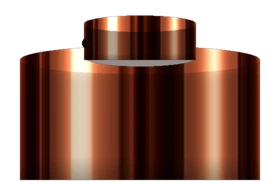
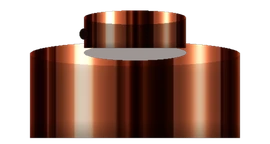
Hero: borrifador mais fino e proporcional ao frasco
Claude-Session: https://claude.ai/code/session_01TqcjX2HsBcZjAJ8EvGL2yP

diff --git a/app.js b/app.js
@@ -450,7 +450,7 @@ function layoutCena() {
 function borrifar() {
   if (reduz) return;
   const c = cena.getBoundingClientRect(), hr = heroEl.getBoundingClientRect();
-  const ox = c.left - hr.left + 1066 * escala, oy = c.top - hr.top + 202 * escala, k = escala / 1.1;
+  const ox = c.left - hr.left + 1075 * escala, oy = c.top - hr.top + 237 * escala, k = escala / 1.1;
   let n = 0;
   const tick = () => {
     const forca = n < 4 ? 1 : Math.max(0, 1 - (n - 4) / 14);          // jato curto: ~0,3 s

diff --git a/index.html b/index.html
@@ -100,7 +100,7 @@
           </linearGradient>
         </defs>
         <image href="/img/hero-base.jpg" width="1536" height="1024"/>
-        <image id="bico" href="/img/hero-bico.webp" x="1022" y="181" width="140" height="92"/>
+        <image id="bico" href="/img/hero-bico.webp" x="1047" y="225" width="90" height="48"/>
         <image id="tampa" href="/img/hero-cap.webp" x="955" y="70" width="275" height="240"/>
       </svg>
     </div>
